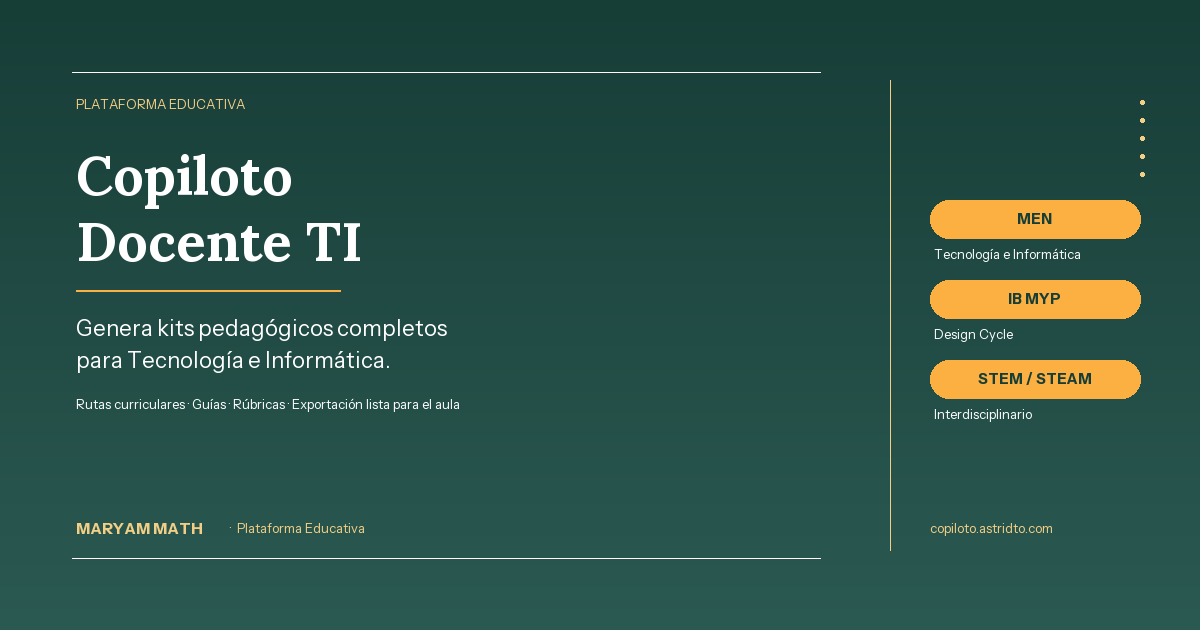
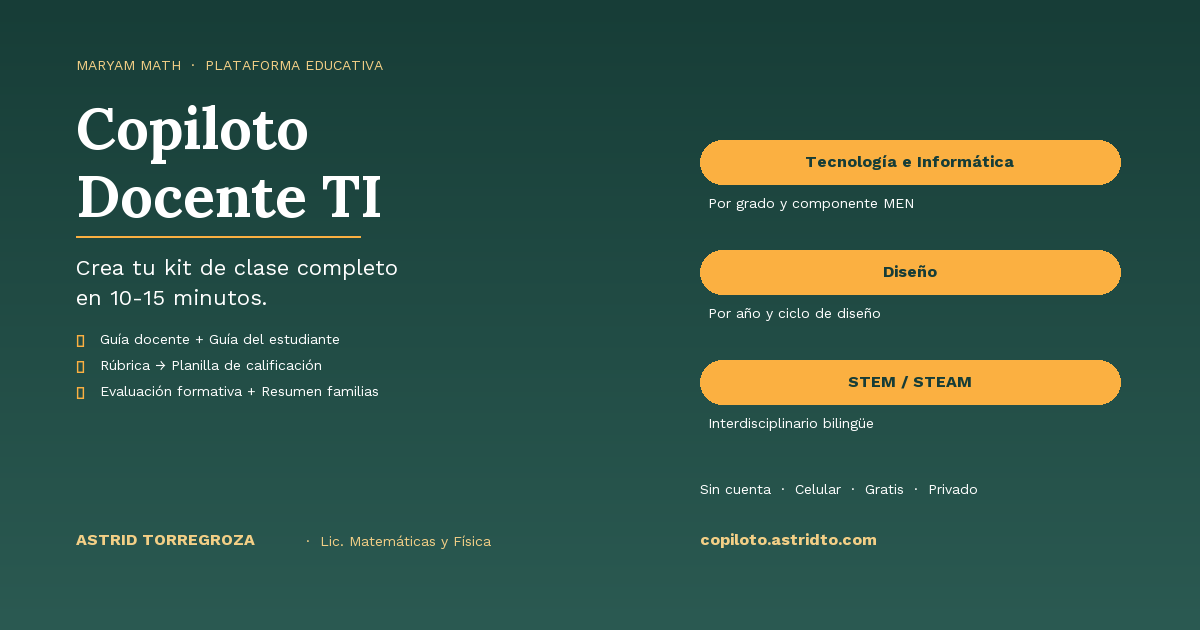
fix: OG image y meta tags actualizados — sin IB MYP, nombres correctos
OG image regenerada con: Copiloto Docente TI, 3 rutas actualizadas
(Tecnologia e Informatica, Diseno, STEM/STEAM), firma Astrid Torregroza,
copiloto.astridto.com. Meta description actualizada.

diff --git a/index.html b/index.html
@@ -5,17 +5,17 @@
     <link rel="icon" type="image/svg+xml" href="/favicon.svg" />
     <meta name="viewport" content="width=device-width, initial-scale=1.0" />
     <title>Copiloto Docente TI · Maryam Math</title>
-    <meta name="description" content="Genera kits pedagógicos completos para Tecnología e Informática. Rutas MEN, IB MYP Design y STEM/STEAM con rúbricas, guías y exportación lista para el aula." />
+    <meta name="description" content="Crea tu kit de clase completo en 10-15 minutos. Guía docente, guía del estudiante, rúbrica, evaluación y resumen para familias. Rutas: Tecnología e Informática, Diseño y STEM/STEAM. Gratis, sin cuenta." />
     <!-- Open Graph -->
-    <meta property="og:title" content="Copiloto Docente TI · Maryam Math" />
-    <meta property="og:description" content="Genera kits pedagógicos completos para Tecnología e Informática. Rutas MEN, IB MYP Design y STEM/STEAM." />
+    <meta property="og:title" content="Copiloto Docente TI — Crea tu kit de clase completo" />
+    <meta property="og:description" content="Guía docente, guía del estudiante, rúbrica, planilla de calificación y resumen para familias. 3 rutas: Tecnología e Informática, Diseño y STEM/STEAM. Gratis, sin cuenta, desde el celular." />
     <meta property="og:type" content="website" />
     <meta property="og:url" content="https://copiloto.astridto.com" />
     <meta property="og:image" content="https://copiloto.astridto.com/og-image.png" />
     <!-- Twitter Card -->
     <meta name="twitter:card" content="summary_large_image" />
-    <meta name="twitter:title" content="Copiloto Docente TI · Maryam Math" />
-    <meta name="twitter:description" content="Genera kits pedagógicos completos para Tecnología e Informática." />
+    <meta name="twitter:title" content="Copiloto Docente TI — Crea tu kit de clase completo" />
+    <meta name="twitter:description" content="Guía docente, guía del estudiante, rúbrica y evaluación. 3 rutas. Gratis, sin cuenta." />
     <meta name="twitter:image" content="https://copiloto.astridto.com/og-image.png" />
   </head>
   <body>
